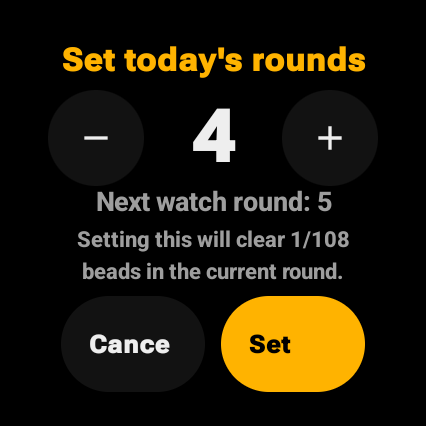
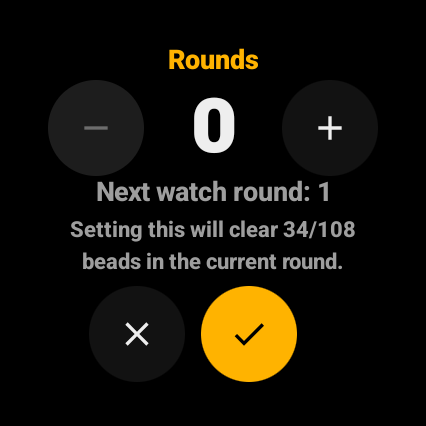
Fix ambient round label and round picker controls

diff --git a/app/src/main/java/com/gauramala/wear/presentation/ui/RoundProgressDialog.kt b/app/src/main/java/com/gauramala/wear/presentation/ui/RoundProgressDialog.kt
@@ -1,6 +1,7 @@
 package com.gauramala.wear.presentation.ui
 
 import androidx.activity.compose.BackHandler
+import androidx.compose.foundation.focusable
 import androidx.compose.foundation.layout.Arrangement
 import androidx.compose.foundation.layout.Column
 import androidx.compose.foundation.layout.Row
@@ -14,14 +15,21 @@ import androidx.compose.foundation.rememberScrollState
 import androidx.compose.foundation.verticalScroll
 import androidx.compose.material.icons.Icons
 import androidx.compose.material.icons.filled.Add
+import androidx.compose.material.icons.filled.Check
+import androidx.compose.material.icons.filled.Close
 import androidx.compose.material.icons.filled.Remove
+import androidx.compose.runtime.LaunchedEffect
 import androidx.compose.runtime.Composable
 import androidx.compose.runtime.getValue
 import androidx.compose.runtime.mutableIntStateOf
 import androidx.compose.runtime.remember
 import androidx.compose.runtime.setValue
 import androidx.compose.ui.Alignment
+import androidx.compose.ui.focus.FocusRequester
+import androidx.compose.ui.focus.focusRequester
+import androidx.compose.ui.input.rotary.onRotaryScrollEvent
 import androidx.compose.ui.Modifier
+import androidx.compose.ui.platform.LocalDensity
 import androidx.compose.ui.text.font.FontWeight
 import androidx.compose.ui.text.style.TextAlign
 import androidx.compose.ui.unit.dp
@@ -46,22 +54,42 @@ fun RoundProgressDialog(
         mutableIntStateOf(state.completedRounds.coerceAtMost(MAX_COMPLETED_ROUNDS))
     }
     val maxRounds = maxOf(MAX_COMPLETED_ROUNDS, state.completedRounds)
+    val rotaryThreshold = with(LocalDensity.current) { 16.dp.toPx() }
+    val rotaryInput = remember(rotaryThreshold) { RoundAdjustmentRotaryInput(rotaryThreshold) }
+    val rotaryFocusRequester = remember { FocusRequester() }
 
     BackHandler(onBack = onDismiss)
+    LaunchedEffect(rotaryFocusRequester) {
+        rotaryFocusRequester.requestFocus()
+    }
 
     Column(
         modifier = Modifier
             .fillMaxSize()
+            .onRotaryScrollEvent { event ->
+                val roundSteps = rotaryInput.consume(
+                    deltaPx = event.verticalScrollPixels,
+                    eventUptimeMs = event.uptimeMillis
+                )
+                if (roundSteps != 0) {
+                    selectedRounds = (selectedRounds.toLong() + roundSteps)
+                        .coerceIn(0L, maxRounds.toLong())
+                        .toInt()
+                }
+                true
+            }
+            .focusRequester(rotaryFocusRequester)
+            .focusable()
             .verticalScroll(rememberScrollState())
             .padding(horizontal = 24.dp, vertical = 12.dp),
         horizontalAlignment = Alignment.CenterHorizontally,
         verticalArrangement = Arrangement.Center
     ) {
         Text(
-            text = "Set today's rounds",
-            style = MaterialTheme.typography.labelLarge,
+            text = "Rounds",
+            style = MaterialTheme.typography.labelSmall,
             color = GauraGold,
-            fontSize = 14.sp,
+            fontSize = 12.sp,
             fontWeight = FontWeight.SemiBold,
             textAlign = TextAlign.Center
         )
@@ -130,29 +158,80 @@ fun RoundProgressDialog(
         Spacer(modifier = Modifier.height(6.dp))
 
         Row(
-            modifier = Modifier.fillMaxWidth(0.92f),
+            modifier = Modifier.fillMaxWidth(0.75f),
             horizontalArrangement = Arrangement.spacedBy(8.dp),
             verticalAlignment = Alignment.CenterVertically
         ) {
             Button(
                 onClick = onDismiss,
-                modifier = Modifier.weight(1f).height(48.dp),
+                modifier = Modifier.size(48.dp),
                 colors = ButtonDefaults.buttonColors(
                     containerColor = SurfaceDark,
                     contentColor = OnSurfaceWhite
                 )
             ) {
-                Text("Cancel", fontSize = 11.sp, maxLines = 1)
+                Icon(Icons.Default.Close, contentDescription = "Cancel round adjustment", modifier = Modifier.size(22.dp))
             }
             Button(
                 onClick = { onSetRounds(selectedRounds) },
-                modifier = Modifier.weight(1f).height(48.dp),
+                modifier = Modifier.size(48.dp),
                 colors = ButtonDefaults.buttonColors(containerColor = GauraGold)
             ) {
-                Text("Set", color = MaterialTheme.colorScheme.onPrimary, fontSize = 11.sp, fontWeight = FontWeight.Bold)
+                Icon(
+                    Icons.Default.Check,
+                    contentDescription = "Set completed rounds",
+                    modifier = Modifier.size(22.dp)
+                )
             }
         }
     }
 }
 
 private const val MAX_COMPLETED_ROUNDS = 999
+
+private class RoundAdjustmentRotaryInput(
+    private val thresholdPx: Float,
+    private val idleResetMs: Long = 180L
+) {
+    private var accumulatedPx = 0f
+    private var lastEventUptimeMs: Long? = null
+
+    init {
+        require(thresholdPx > 0f && thresholdPx.isFinite())
+        require(idleResetMs >= 0L)
+    }
+
+    fun consume(deltaPx: Float, eventUptimeMs: Long): Int {
+        val previousEventTime = lastEventUptimeMs
+        if (previousEventTime != null &&
+            (eventUptimeMs < previousEventTime || eventUptimeMs - previousEventTime > idleResetMs)
+        ) {
+            accumulatedPx = 0f
+        }
+        lastEventUptimeMs = eventUptimeMs
+
+        if (!deltaPx.isFinite()) {
+            accumulatedPx = 0f
+            return 0
+        }
+        if (deltaPx == 0f) return 0
+        if (accumulatedPx != 0f && accumulatedPx.sign != deltaPx.sign) {
+            accumulatedPx = 0f
+        }
+
+        accumulatedPx += deltaPx
+        val direction = accumulatedPx.sign.toInt()
+        val steps = (kotlin.math.abs(accumulatedPx) / thresholdPx).toInt()
+        if (steps == 0) return 0
+
+        accumulatedPx -= direction * steps * thresholdPx
+        return direction * steps
+    }
+
+    private val Float.sign: Float
+        get() = when {
+            this > 0f -> 1f
+            this < 0f -> -1f
+            else -> 0f
+        }
+}

diff --git a/app/src/main/java/com/gauramala/wear/presentation/ui/MantraCounterScreen.kt b/app/src/main/java/com/gauramala/wear/presentation/ui/MantraCounterScreen.kt
@@ -201,7 +201,11 @@ fun MantraCounterScreen(
             // Round Header Indicator
             if (isAmbient) {
                 Text(
-                    text = "R ${state.completedRounds}",
+                    text = if (state.isGoalAchieved) {
+                        "Goal"
+                    } else {
+                        "R ${state.completedRounds + 1}"
+                    },
                     style = MaterialTheme.typography.labelSmall,
                     color = Color.White,
                     fontSize = 12.sp,

diff --git a/AGENTS.md b/AGENTS.md
@@ -36,7 +36,8 @@ Gaura Mala is a native Wear OS japa counter for the Hare Krishna maha-mantra. It
 - Crown movement is converted from accumulated rotary pixels to discrete bead steps. The accumulator resets after idle time to prevent counts continuing after crown rotation stops.
 - Tap and crown use app haptics for bead progress and special milestone/round cues. Double-pinch relies on the system's ordinary gesture feedback while retaining the app's special milestone, round-completion, and daily-goal cues.
 - Milestones are beads 27, 54, and 81; one round completes at 108. The daily-goal completion cue takes priority when the last bead also reaches the daily goal.
-- The counter's round label opens a manual adjustment for completed rounds today, so users can reconcile progress after chanting with physical beads. Saving starts the next watch round at bead 0, clears the previous bead's undo history, and does not play chanting haptics or show the goal celebration.
+- The counter's round label opens a manual adjustment for completed rounds today, so users can reconcile progress after chanting with physical beads. The picker supports plus/minus buttons and crown rotation; use a short title and check/cross actions to fit the round display. Saving starts the next watch round at bead 0, clears the previous bead's undo history, and does not play chanting haptics or show the goal celebration.
+- The ambient counter header shows the current round (`completedRounds + 1`) to match the active display, and shows `Goal` when the daily goal is complete.
 - Keep Awake is optional and defaults off. The double-pinch path supports ambient mode; do not force the display to remain fully awake to make counting work.
 - Preserve the current centered round bead ring. Earlier circle redesigns looked disoriented to the user; the requested adjustment was text placement, not a different ring.
 - Wear OS screens must adapt to round displays with different usable diameters and system font scales. Let labels wrap where needed, keep important controls within the curved safe area, and preserve at least 48dp touch targets for primary actions.
@@ -90,7 +91,7 @@ Version 11 is a dependency maintenance release. `app/build.gradle.kts` now uses 
 
 Next steps:
 
-1. Manually check the new round adjustment on the watch, including a save with partial bead progress, then check smaller and larger system font sizes on the counter, settings, and privacy policy screens.
+1. Manually check the new round adjustment on the watch, including crown increments/decrements and a save with partial bead progress, then check smaller and larger system font sizes on the counter, settings, and privacy policy screens.
 2. Before preparing the next Play bundle, confirm whether version 11 was uploaded; use a new version code if it was. Build and upload the updated source to a Wear OS closed-testing track, then check whether Play Console clears the Tile and protobuf notices for that artifact.
 3. Verify Tile updates on a Wear OS 5/API 34 device if available; also check the Tile and complication after the dependency update on the Pixel Watch 5.
 4. Verify the Contact Developer handoff with the watch paired to the user's phone; the emulator only verified the no-phone fallback.
